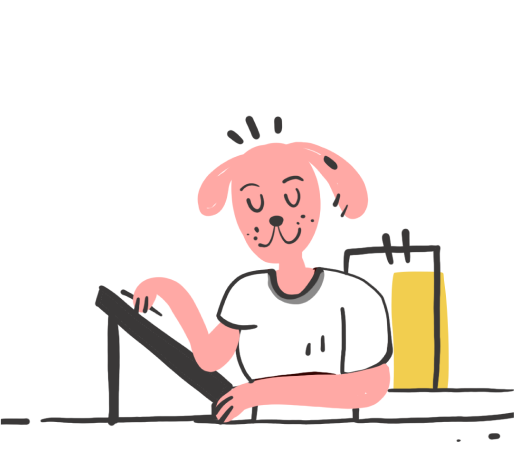
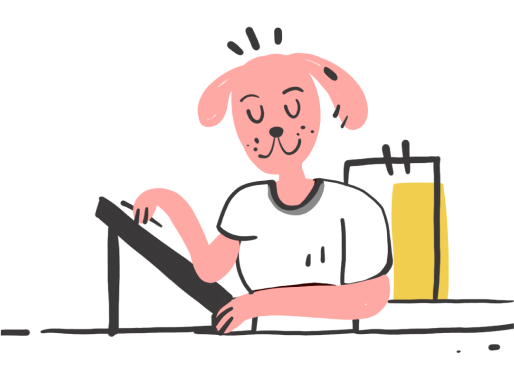
- Updated homepage | Mobile | small and x-small screens

Changed region(s): [[0.0, 0.0603, 1.0, 0.9644], [0.2179, 0.8137, 0.249, 0.8438], [0.1868, 0.7836, 0.2179, 0.8137]]

diff --git a/resources/sass/homepage/main.scss b/resources/sass/homepage/main.scss
@@ -140,8 +140,15 @@
           color: #FFFFFF;
 
           // responsive media quires:
+          // xs
+          @media screen and (max-width: 325px){
+            width: 100px;
+            height: 35px;
+            font-size: 13px;
+            margin-left: 16px;
+          }
           // mobile:
-          @media screen and (max-width: 599px) {
+          @media screen  and (max-width: 599px) and (min-width: 326px) {
             width: 130px;
             height: 40px;
             font-size: 14px;
@@ -185,6 +192,7 @@
         @media screen and (max-width: 599px) {
           padding-left: 13px;
           padding-right: 13px;
+          margin-top: 15px;
         }
         .main-text-container {
           font-family: Averta-Bold, sans-serif;
@@ -229,6 +237,7 @@
             @media screen and (max-width: 599px) {
               font-size: 24px;
               line-height: 30px;
+              margin-top: 20px;
             }
 
             // tablet:
@@ -246,40 +255,56 @@
           }
         }
 
-        .bobby-image {
+      }
+
+      .bobby-image {
+        @media screen and (max-width: 599px) {
+          display: flex;
+          justify-content: center;
+          &.desktop{
+            display: none !important;
+          }
+        }
+
+        &.mobile{
+          display: none !important;
           @media screen and (max-width: 599px) {
-            display: flex;
-            justify-content: center;
+            display: flex !important;
+            margin-top: 15px;
+          }
+        }
+
+        img {
+          width: 100%;
+          // mobile:
+          @media screen and (max-width: 599px) {
+            width: 68%;
           }
 
-          img {
-            width: 100%;
-            // mobile:
-            @media screen and (max-width: 599px) {
-              width: 68%;
-            }
-
-            // tablet:
-            @media screen and (max-width: 960px) and (min-width: 600px) {
+          // tablet:
+          @media screen and (max-width: 960px) and (min-width: 600px) {
 
 
 
-            }
+          }
 
-            // laptop:
-            @media screen and (max-width: 1700px) and (min-width: 961px) {
+          // laptop:
+          @media screen and (max-width: 1700px) and (min-width: 961px) {
 
 
-            }
           }
         }
       }
+
 
       .section-two-input {
         margin-top: 60px;
         display: flex;
         flex-wrap: wrap;
         align-items: center;
+        @media screen and (max-width: 599px) {
+          margin-top: 35px;
+        }
         #homepage_username_input{
           width: 100%;
         }
@@ -290,6 +315,7 @@
         @media screen and (max-width: 599px) {
           padding-left: 13px;
           padding-right: 13px;
+          margin-top: 15px;
         }
         .ah-homepage-banner {
           img{
@@ -334,10 +360,16 @@
 
           .text-two {
             margin-top: 50px;
+            @media screen and (max-width: 599px) {
+              margin-top: 25px;
+            }
           }
 
           .action-btn {
             margin-top: 60px;
+            @media screen and (max-width: 599px) {
+              margin-top: 40px;
+            }
             a{
               width: 320px;
               height: 100px;
@@ -359,12 +391,12 @@
 
               // mobile:
               @media screen and (max-width: 599px) {
-                width: 130px;
-                height: 40px;
+                width: 135px;
+                height: 42px;
                 font-size: 14px;
                 img{
                   margin-left: 6px !important;
-                  width: 19px;
+                  width: 18px;
                 }
               }
 
@@ -396,9 +428,9 @@
           // mobile
           @media screen and (max-width: 599px) {
             position: absolute;
-            width: 41%;
-            bottom: -65px;
-            right: 22px;
+            width: 44%;
+            bottom: -75px;
+            right: 10px;
           }
 
         }
@@ -440,6 +472,7 @@
             font-size: 24px;
             line-height: 32px;
             text-align: center;
+            margin-bottom: 41px;
           }
         }
 
@@ -474,8 +507,8 @@
         align-items: baseline;
 
         @media screen and (max-width: 599px) {
-          margin-top: 60px;
-          margin-bottom: 60px;
+          margin-top: 41px;
+          margin-bottom: 41px;
         }
 
         .single-review {
@@ -504,8 +537,7 @@
           .review-text {
             font-family: NexaBold, sans-serif;
             font-weight: bold;
-            font-size: 1.5rem;;
-            line-height: 24px;
+            font-size: 1.5rem;
             text-align: center;
             color: #575757;
             @media screen and (max-width: 599px) {
@@ -527,7 +559,9 @@
     display: flex;
     justify-content: center;
     align-items: center;
-
+    @media screen and (max-width: 599px) {
+      height: 70px;
+    }
     .get-started-text {
       display: flex;
       align-items: center;
@@ -537,15 +571,25 @@
       letter-spacing: 0.2em;
       text-transform: capitalize;
       color: #0046FE;
+      @media screen and (max-width: 599px) {
+        font-size: 14px;
+      }
 
       span {
         font-size: 0.875rem;
         margin-left: 9px;
+        @media screen and (max-width: 599px) {
+          font-size: 12px;
+        }
       }
 
       img {
         margin-left: 5px;
         margin-top: 7px;
+        @media screen and (max-width: 599px) {
+          margin-left: 4px;
+          margin-top: 4px;
+        }
       }
     }
   }
@@ -559,11 +603,7 @@
 
     @media screen and (max-width: 599px) {
       padding: 20px 20px;
-      height: 160px;
-    }
-
-    @media screen and (max-width: 960px) {
-      height: 160px;
+      height: 70px;
     }
 
     .footer-wrapper {
@@ -576,12 +616,26 @@
       flex-wrap: wrap;
 
       @media screen and (max-width: 599px) {
-        flex-direction: column;
+        flex-wrap: nowrap;
         justify-content: center;
       }
 
       @media screen and (max-width: 960px) {
         justify-content: center;
+      }
+
+      .footer-logo-wrapper{
+        @media screen and (max-width: 599px) {
+          background-image: url("/images/homepage/civie_logo_white.png");
+          background-size: 135px;
+          background-repeat: no-repeat;
+          width: 50px;
+          height: 50px;
+          margin-top: 5px;
+          img{
+            display: none;
+          }
+        }
       }
 
       .follow-us-text {
@@ -592,19 +646,22 @@
         display: flex;
         align-items: center;
         white-space: pre;
-
+        label, span{
+          @media screen and (max-width: 599px) {
+            display: none;
+          }
+        }
         span {
           font-family: NexaBold, sans-serif !important;
           font-size: 1.125rem;
         }
 
         @media screen and (max-width: 1903px) {
-          font-size: 1.5rem;;
+          font-size: 1.5rem;
           span {
             font-size: 12px;
           }
         }
-
         @media screen and (max-width: 959px) {
           font-size: 1.125rem;
         }
@@ -655,11 +712,19 @@
           width: 20px;
         }
 
-        @media screen and (max-width: 599px) {
-          width: 30px;
-          height: 30px;
+        @media screen and (max-width: 325px){
+          width: 30px !important;
+          height: 30px !important;
           img {
-            width: 15px;
+            width: 16px;
+          }
+        }
+
+        @media screen and (max-width: 599px) {
+          width: 38px;
+          height: 38px;
+          img {
+            width: 18px;
           }
         }
       }

diff --git a/resources/js/components/homepage/UsernameInput.vue b/resources/js/components/homepage/UsernameInput.vue
@@ -234,6 +234,7 @@
                         height: 60px;
                         padding-left: 75px;
                         margin-left: 0;
+                        border-radius: 10px;
                     }
 
                     // tablet:
@@ -266,7 +267,7 @@
                     // mobile:
                     @media screen and (max-width: 599px) {
                         top: 22px;
-                        right: 34px;
+                        right: 15px;
                         width: 20px;
                     }
 
@@ -296,7 +297,7 @@
                     @media screen and (max-width: 599px) {
                         font-size: 10px;
                         line-height: 50px;
-                        left: 20px;
+                        left: 8px;
                         top: 50px;
                     }
 
@@ -346,12 +347,13 @@
 
                     // mobile:
                     @media screen and (max-width: 599px) {
-                        width: 130px;
-                        height: 40px;
+                        width: 135px;
+                        height: 42px;
                         font-size: 14px;
+                        box-shadow: 0px 4px 15px rgb(20 214 39 / 20%);
                         img{
                             margin-left: 6px;
-                            width: 19px;
+                            width: 18px;
                         }
                     }
 

diff --git a/resources/views/welcome.blade.php b/resources/views/welcome.blade.php
@@ -32,7 +32,7 @@
                             Express yourself & build a resume that you can be proud of
                         </div>
                     </div>
-                    <div class="bobby-image">
+                    <div class="bobby-image desktop">
                         <img src="/images/homepage/bobby_image.png" alt="bobby image">
                     </div>
                 </div>
@@ -41,6 +41,10 @@
                     <div id="homepage_username_input">
                         <username-input></username-input>
                     </div>
+                </div>
+
+                <div class="bobby-image mobile">
+                    <img src="/images/homepage/bobby_image.png" alt="bobby image">
                 </div>
 
                 <div class="section-three-image">
@@ -138,10 +142,10 @@
         
         <div class="custom-footer">
             <div class="footer-wrapper">
-                <img
-                        class="logo-footer"
-                        src="/images/welcome_landing_page/logo/civie_logo-01.webp"
-                />
+                <div class="footer-logo-wrapper">
+                    <img class="logo-footer" src="/images/homepage/civie_logo_white.png"/>
+                </div>
+
                 <div class="follow-us-text">
                     <label>Follow Us:</label>
                     <a
